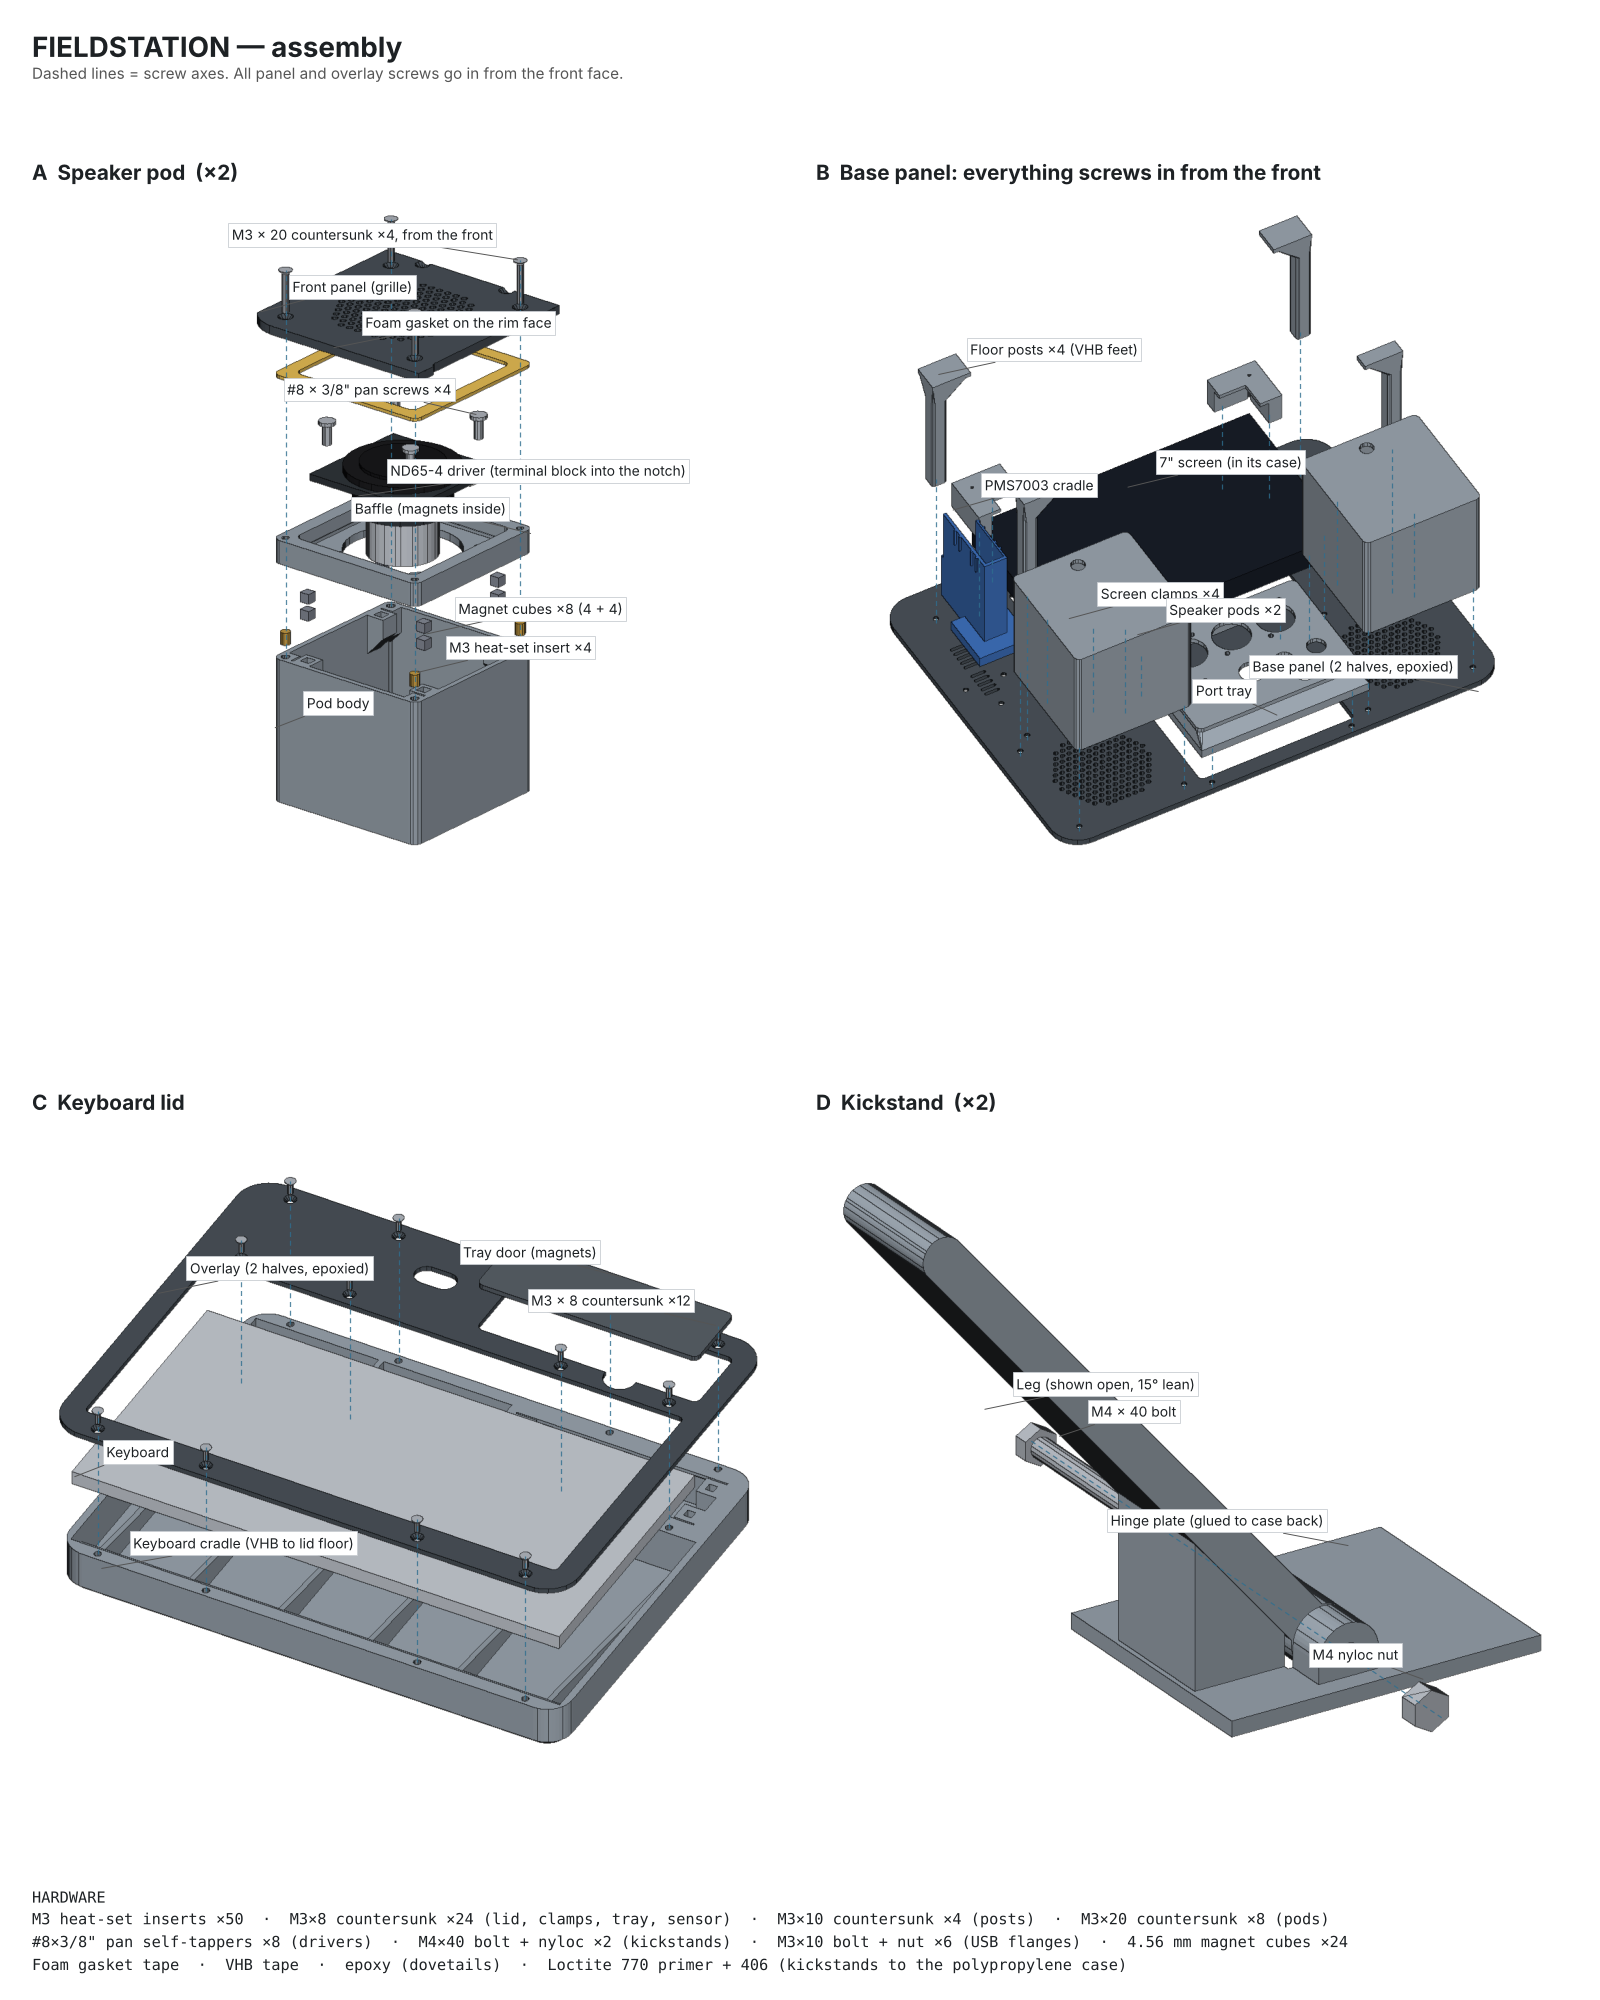
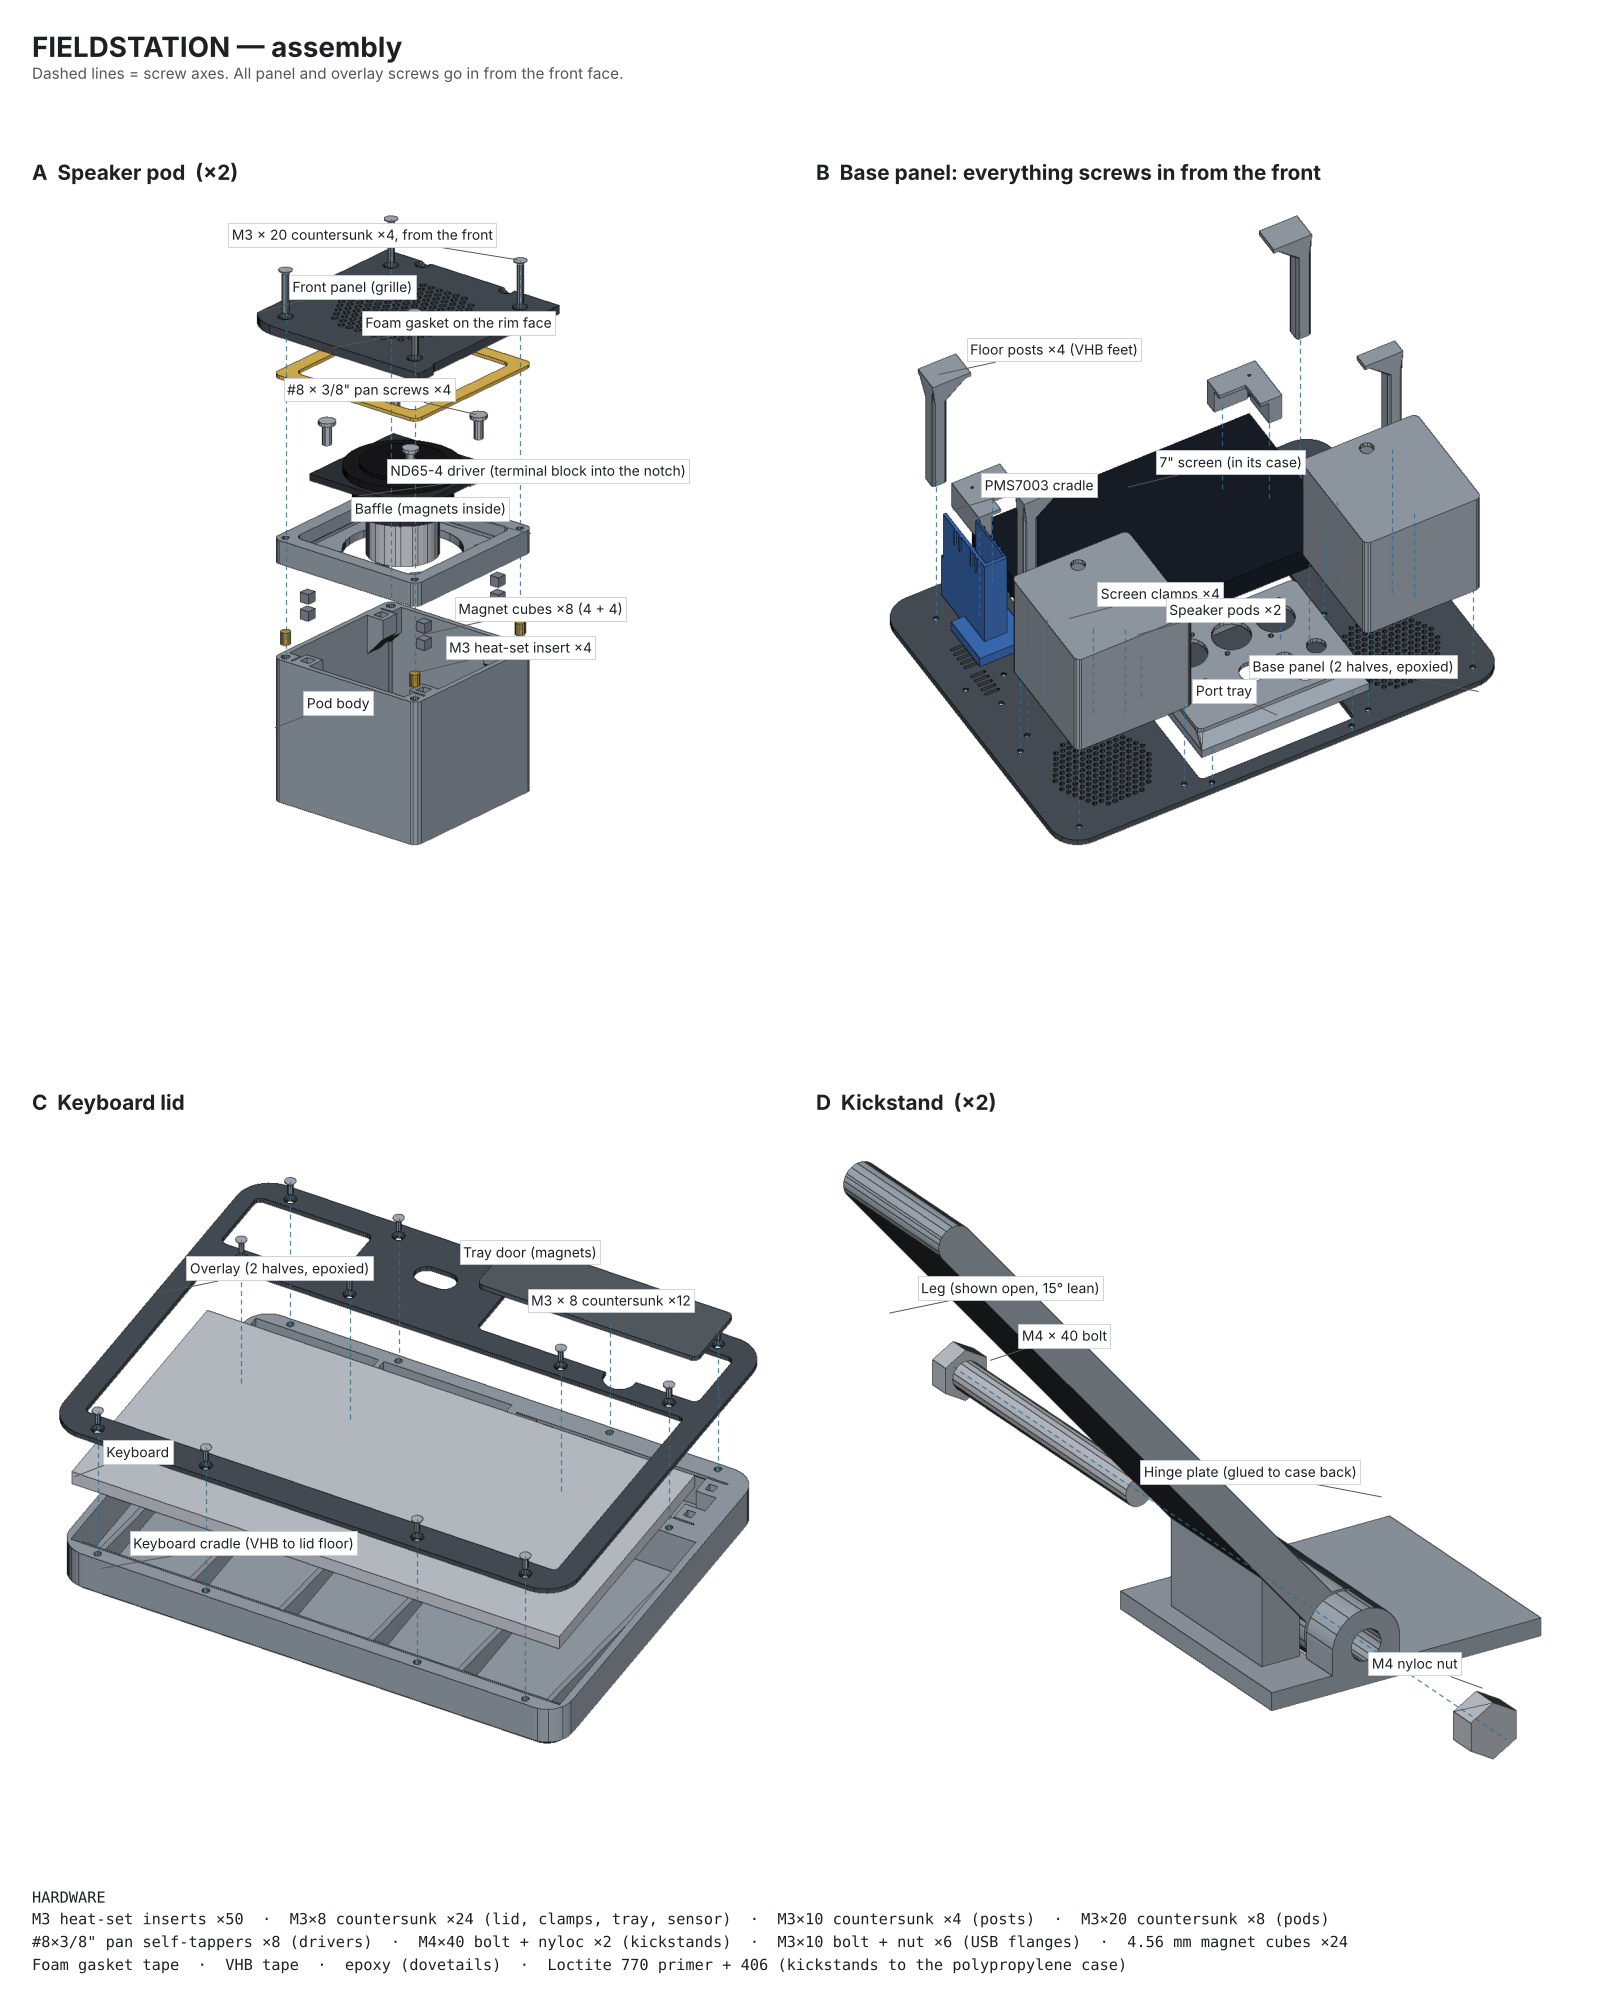
Slim kickstand: half the height, a third of the plastic
Plate 35 x 40 x 2.5 mm (was 50 x 62 x 3) with a short stop wedge beside
the pivot, standing 14.7 mm off the case (was 30.6). Flat 22 x 5 mm leg,
96 mm long, pivot 75 mm up the case back (was 100). Still stops at the
15 deg lean on the same M4 x 40 pivot; about 20 g per stand (was 54 g).

Claude-Session: https://claude.ai/code/session_015Mjdpdd6ef1wmGCnczCrjc

Changed region(s): [[0.5312, 0.558, 0.9688, 0.899], [0.125, 0.589, 0.2188, 0.651]]

diff --git a/hardware/src/kickstand.py b/hardware/src/kickstand.py
@@ -1,50 +1,55 @@
-"""Folding kickstand: hinge plate glued to the back of the base + leg on an M4 pivot.
+"""Slim folding kickstand (v2): low hinge plate glued to the back of the base + flat leg on an M4 pivot.
+The open leg stops on a short wedge right beside the pivot (half the height of the old one).
 Plate coords: x along the hinge axis, y up the case back (toward the top edge), z out from the case back."""
 import numpy as np, trimesh, math
 from manifold3d import Manifold, CrossSection
 LEAN=15.0            # case leans back this much
 ALPHA=50.0           # open leg angle from the case back (pointing down/back) -> leg is 35 deg from vertical
-P_UP=100.0           # pivot height up the case back from the bottom edge
-H_P=7.0              # pivot axis height above the case surface
-PLATE_T=3.0; PW_,PY0,PY1=50.0,-26.0,36.0
-KD=12.0; PIN=4.4     # knuckle dia, M4 clearance
-KW=8.0; GAP=0.6; LW=50.0-2*(KW+4.0)-2*GAP   # leg knuckle width between plate knuckles
-LT=8.0               # leg thickness
+P_UP=75.0            # pivot height up the case back from the bottom edge (was 100: shorter leg)
+PLATE_T=2.5          # plate thickness
+H_P=5.5              # pivot axis height above the case surface
+KD=10.0; PIN=4.4     # knuckle dia, M4 clearance
+LW=22.0              # leg width
+KW=6.0; GAP=0.5      # plate knuckle width, side gap
+LT=5.0               # leg thickness (flat strap)
+PW_=LW+2*(GAP+KW)    # plate width = hinge span (M4 x 40 bolt + nyloc)
+PY0,PY1=-14.0,26.0   # plate extent along the case back
 height=P_UP*math.cos(math.radians(LEAN)); beta=ALPHA-LEAN
 LG=height/math.cos(math.radians(beta))      # pivot -> ground along the leg
+OPEN=180-ALPHA                               # rotation from folded to open
 def cyl_x(d,L,y,z,x0): return Manifold.cylinder(L,d/2,d/2,48).rotate([0,90,0]).translate([x0,y,z])
 def box(x0,y0,z0,x1,y1,z1): return Manifold.cube([x1-x0,y1-y0,z1-z0]).translate([x0,y0,z0])
-# ---- plate
+def rot_open(m,deg): return m.transform(np.asarray(trimesh.transformations.rotation_matrix(math.radians(deg),[1,0,0],[0,0,H_P])[:3,:]))
+# ---- plate: thin base with two knuckle blocks, relief slot under the leg knuckle
+xk=LW/2+GAP
 plate=box(-PW_/2,PY0,0,PW_/2,PY1,PLATE_T)
-xk=LW/2+GAP          # inner face of the plate knuckles
 for s in (-1,1):
     xa,xb=(xk,xk+KW) if s>0 else (-xk-KW,-xk)
     plate=plate+cyl_x(KD,KW,0,H_P,xa)+box(xa,-KD/2,0,xb,KD/2,H_P)
-# open-angle stop wedge under the leg (between the knuckles is where the leg swings, so wedges sit under the leg's path)
-a=math.radians(ALPHA); u=np.array([-math.cos(a),math.sin(a)]); nin=np.array([-math.sin(a),-math.cos(a)])
-p0=np.array([0,H_P])+nin*(LT/2)
-def zline(y): s=(p0[0]-y)/math.cos(a); return p0[1]+math.sin(a)*s
-ys=[-7.0,PY0+1.0]
-pts=[(ys[0],PLATE_T),(ys[1],PLATE_T),(ys[1],zline(ys[1])),(ys[0],zline(ys[0]))]
-wedge=Manifold.extrude(CrossSection([[ (float(y),float(z)) for y,z in pts[::-1]]]),LW-1.0).rotate([90,0,90]).translate([-(LW-1.0)/2,0,0])
-plate=plate+wedge
+REL=math.sqrt((KD/2+0.4)**2-(H_P-PLATE_T)**2)        # half-length of the slot the leg knuckle swings through
+plate=plate-box(-xk,-REL,-1,xk,REL,PLATE_T+1)
 plate=plate-cyl_x(PIN,PW_+2,0,H_P,-PW_/2-1)
-plate=plate-box(-(LW/2+GAP),-7.0,-1,LW/2+GAP,7.0,PLATE_T+1)   # relief under the leg knuckle
+# short stop wedge right next to the pivot: the open leg's underside lands on it (was a 30 mm tall wedge)
+a=math.radians(ALPHA); nin=np.array([-math.sin(a),-math.cos(a)])
+p0=np.array([0,H_P])+nin*(LT/2)
+def zline(y): t=(p0[0]-y)/math.cos(a); return p0[1]+math.sin(a)*t
+W0,W1=-(KD/2+0.4),-11.0      # starts outside the leg knuckle's swing
+pts=[(W0,PLATE_T-0.01),(W1,PLATE_T-0.01),(W1,zline(W1)),(W0,zline(W0))]
+wedge=Manifold.extrude(CrossSection([[(float(y),float(z)) for y,z in pts[::-1]]]),LW-1.0).rotate([90,0,90]).translate([-(LW-1.0)/2,0,0])
+plate=plate+wedge
 # ---- leg (modelled folded: pointing +y along the case back), knuckle at the pivot
-leg=cyl_x(KD,LW,0,H_P,-LW/2)+box(-LW/2,0,H_P-LT/2,LW/2,LG,H_P+LT/2)
-leg=leg+cyl_x(LT,LW,LG,H_P,-LW/2)            # rounded foot end
+leg=cyl_x(KD,LW,0,H_P,-LW/2)+box(-LW/2,0,H_P-LT/2,LW/2,LG,H_P+LT/2)+cyl_x(LT,LW,LG,H_P,-LW/2)
 leg=leg-cyl_x(PIN,LW+2,0,H_P,-LW/2-1)
+def contact_angle(l=None):
+    l=leg if l is None else l
+    for d in np.arange(60,181,0.25):
+        if (plate^rot_open(l,d)).volume()>0.05: return d
+    return 181
 def tm(m): o=m.to_mesh(); return trimesh.Trimesh(o.vert_properties[:,:3],o.tri_verts,process=False)
-tp,tl=tm(plate),tm(leg)
-# open-position check: rotate leg 180-ALPHA about the pivot axis and test against the plate (excluding knuckle overlap)
-R=trimesh.transformations.rotation_matrix(math.radians(180-ALPHA),[1,0,0],[0,0,H_P])
-lo=leg.transform(R[:3,:]) if hasattr(leg,'transform') else None
-open_leg=Manifold.cube([1,1,1])  # placeholder
-ov=(plate ^ leg.transform(np.asarray(R[:3,:]))).volume() if hasattr(leg,'transform') else -1
-print('plate watertight',tp.is_watertight,'bounds',tp.bounds.round(1).tolist())
-print('leg watertight',tl.is_watertight,'leg pivot-to-ground %.1f mm, leg %.0f deg from vertical when open'%(LG,beta))
-print('overlap plate vs open leg (should be ~0, wedge touching): %.2f mm3'%ov)
-print('folded leg reaches %.0f mm up the case back from the bottom edge'%(P_UP+LG+LT/2))
-foot_back=P_UP*math.sin(math.radians(LEAN))+LG*math.sin(math.radians(beta))
-print('foot lands %.0f mm behind the bottom-back edge'%foot_back)
-tp.export('kickstand_plate.stl'); tl.export('kickstand_leg.stl')
+if __name__=='__main__':
+    tp,tl=tm(plate),tm(leg)
+    print('plate',tp.is_watertight,tp.bounds.round(1).tolist(),'%.1f cm3'%(tp.volume/1000))
+    print('leg',tl.is_watertight,tl.bounds.round(1).tolist(),'%.1f cm3'%(tl.volume/1000))
+    print('leg first touches the plate at %.2f deg (open target %.1f); leg %.0f deg from vertical; pivot to ground %.1f'%(contact_angle(),OPEN,beta,LG))
+    print('folded: stands %.1f mm off the case back, reaches %.0f mm up from the bottom edge'%(H_P+KD/2,P_UP+LG+LT/2))
+    print('foot lands %.0f mm behind the bottom-back edge'%(P_UP*math.sin(math.radians(LEAN))+LG*math.sin(math.radians(beta))))

diff --git a/hardware/README.md b/hardware/README.md
@@ -68,7 +68,7 @@ The KVM remote button lives in the open pocket at the left end of the lid's hing
 5. **Lid.** The cradle halves can be dry-fitted. Screw the overlay onto the cradle, drop the assembly into the lid so the overlay centres it, then fix it with VHB (or Dual Lock if you want it removable). The roughly 6 mm gap around the cradle is intentional; it clears the lid's tapered walls and curved floor edge.
 6. **PMS7003 sensor.** Fit the adapter board and Dupont plugs first. The cradle is built for the board lying on the label face (3.5 mm above it), overhanging the inlet face by 6.5 mm and the board end by 9 mm, with the plugs mid-thickness in front of the inlet face, pointing at the panel. The front of the cradle has two chambers split by a rib: the outlet chamber, and an inlet chamber that also holds the plugs. Drop the sensor in from the back, face first, with the board on the side where the sleeve wall is open, feeding the wires out through the slot in the inlet chamber's end wall. Hold it in with a cable tie round the sleeve and over the sensor's back, between the guide ridges. Then seal it so it only breathes through the louvres: foam gasket round the lip, and foam or putty in the wire slot and the small notch where the header pins pass. See [docs/pms7003_cradle.png](docs/pms7003_cradle.png).
 7. **KVM.** Stick the 2 mm spacer (B5) to the back of the screen case with VHB, centred about 40 mm in from the screen's left edge and 50 mm down from its top, then stick the KVM onto it with its console edge (HDMI, USB-A) facing the top of the case and its built-in cables facing down. The spacer lifts it clear of the top-left screen clamp. Use right-angle HDMI and USB-A plugs on the console side, and coil the spare host cable over the perfboard, not the breakout. See [docs/internal_layout.png](docs/internal_layout.png).
-8. **Kickstands.** Glue the hinge plates to flat areas about 100 mm up the back of the case.
+8. **Kickstands.** Glue the hinge plates (35 × 40 mm) to flat areas with the pivot about 75 mm up the back of the case, one each side.
 
 ## Source (`src/`)
 
@@ -90,7 +90,7 @@ python placement_sheet.py # redraws ../docs/placement_sheet.png
 | `pod.py` | Speaker pod body and baffle |
 | `screen_clamp.py` | Screen corner clamps |
 | `pms7003_v2.py` | Ducted PMS7003 cradle |
-| `kickstand.py` | Kickstand hinge plate and leg |
+| `kickstand.py` | Slim kickstand: hinge plate with a short stop wedge, flat 22 × 5 mm leg |
 | `floorplate.py` | Floor plate glued to the case floor: Pi case pocket, perfboard and breakout bosses |
 | `placement_sheet.py`, `assembly_sheet.py`, `pms_diagram.py`, `layout_sheet.py`, `case_render.py` | The placement, exploded-assembly, sensor-cradle and internal-layout drawings in `docs/` |
 
